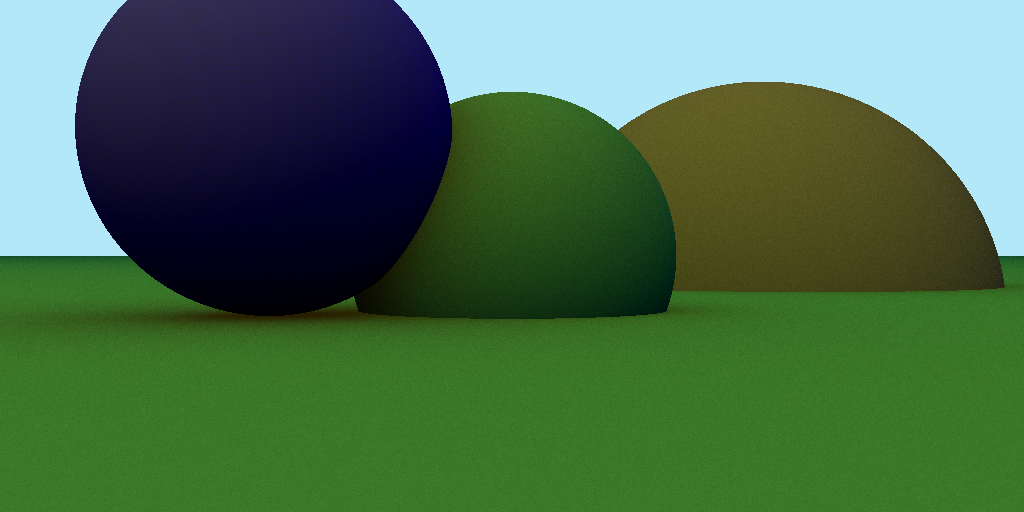
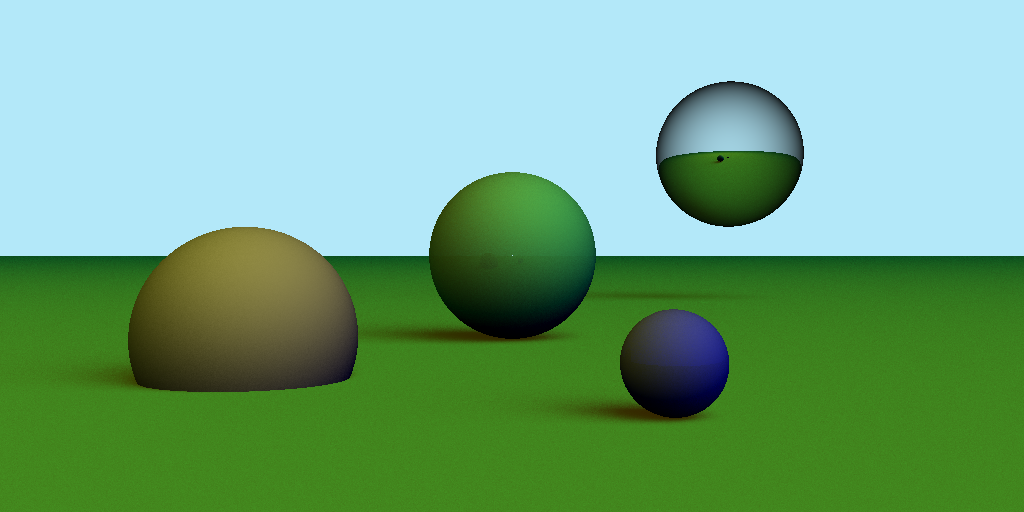
reflection

diff --git a/src/lightbox.cpp b/src/lightbox.cpp
@@ -11,6 +11,7 @@ struct Sphere {
   Vec3d center;
   Vec3d albedo;
   float radius;
+  float reflectiveness;
 };
 
 struct PointLight {
@@ -22,17 +23,19 @@ struct Plane {
   Vec3d point;
   Vec3d norm;
   Vec3d albedo;
+  float reflectiveness;
 };
 
 struct HitPoint {
   Vec3d point;
   Vec3d norm;
   Vec3d albedo;
+  float reflect;
 };
 
 Vec3d camera;
-
-Sphere spheres[3];
+int sphereCount = 4;
+Sphere spheres[4];
 PointLight plight;
 Plane ground;
 
@@ -97,10 +100,11 @@ Vec3d trace(Vec3d ray_origin, Vec3d ray, int depth) {
       hp.point = hitP;
       hp.norm = norm;
       hp.albedo = ground.albedo;
+      hp.reflect = ground.reflectiveness;
     }
 
     // spheres
-    for(int i=0; i<3; i++) {
+    for(int i=0; i<sphereCount; i++) {
       Vec3d hitP;
       Vec3d norm;
       float hitDist = intersect(spheres[i], ray_origin, ray, hitP, norm);
@@ -111,13 +115,14 @@ Vec3d trace(Vec3d ray_origin, Vec3d ray, int depth) {
         hp.point = hitP;
         hp.norm = norm;
         hp.albedo = spheres[i].albedo;
+        hp.reflect = spheres[i].reflectiveness;
       }
     }
 
 
 
     // pick a random direction
-    L = normalize(Vec3d(rrand()*2-1, rrand()*2-1, rrand()*2-1));
+    L = normalize(Vec3d(rrand(), rrand(), rrand()));
     // ensure that it isn't going inside the sphere  
     // (reflect ray instead?)  
     L = hp.norm.dot(L) < 0 ? -1*L : L;
@@ -129,15 +134,19 @@ Vec3d trace(Vec3d ray_origin, Vec3d ray, int depth) {
     // }
 
     if(hit) {
-      px = trace(hp.point, L, depth-1) * hp.albedo * hp.norm.dot(L);
-      
-      // go hit the light
-      Vec3d hitLight = normalize(plight.center - hp.point);
-      Vec3d lightCol = plight.albedo * hp.norm.dot(hitLight);
+      if(rrand() < hp.reflect) {
+        L = normalize(ray - 2*hp.norm.dot(ray)*hp.norm);
+        px = trace(hp.point, L, depth-1) * hp.albedo * hp.norm.dot(L);
+      } else {
+        px = trace(hp.point, L, depth-1) * hp.albedo * hp.norm.dot(L);
+        // go hit the light
+        Vec3d hitLight = normalize(plight.center - hp.point);
+        Vec3d lightCol = plight.albedo * hp.norm.dot(hitLight);
 
-      // average out ray effects
-      // weight them differently... 
-      px = 0.8*px + 0.2*lightCol;
+        // average out ray effects
+        // weight them differently... 
+        px = 0.8*px + 0.2*lightCol;
+      }      
     } 
     return px;
   }
@@ -154,7 +163,7 @@ how does that relate to right hand / left hand rule for seeing direction of norm
 // The image center will be (0,0), and x will range from -0.5 to 0.5.
 inline Vec3d render_pixel(Vec2d xy) {
   Vec3d px = Vec3d(0.);
-  int count = 100;
+  int count = 160;
   for(int i=0; i<count; i++) {
     Vec3d ray= Vec3d(xy.x, xy.y, 0) - camera;
     Vec3d rayDirection = normalize(ray);
@@ -181,24 +190,33 @@ int main(int argc, char** argv) {
   
   camera = Vec3d(0., 0., 1.);
   
-  spheres[0].center = Vec3d(-0.4, .2, -.7);
-  spheres[0].albedo = Vec3d(0.1, 0., 1.);
-  spheres[0].radius = 0.3;
+  spheres[0].center = Vec3d(-0.65, -.2, -1.5);
+  spheres[0].albedo = Vec3d(.7, .5, .4 );
+  spheres[0].radius = 0.27;
+  spheres[0].reflectiveness = 0.;
 
-  spheres[1].center = Vec3d(0.,0., -.9);
+  spheres[1].center = Vec3d(0.,0., -2.7);
   spheres[1].albedo = Vec3d(.2, .7, .4);
   spheres[1].radius = 0.3;
+  spheres[1].reflectiveness = 0.08;
 
-  spheres[2].center = Vec3d(.85, -.2, -2.6);
-  spheres[2].albedo = Vec3d(.7, .5, .4 );
-  spheres[2].radius = .8;
+  spheres[2].center = Vec3d(1.5, .7, -6.1);
+  spheres[2].albedo = Vec3d(0.9, 0.9, 0.9);
+  spheres[2].radius = .5;
+  spheres[2].reflectiveness = 1.;
+
+  spheres[3].center = Vec3d(.3, -.2, -.9);
+  spheres[3].albedo = Vec3d(0.1, 0.1, 0.8);
+  spheres[3].radius = .1;
+  spheres[3].reflectiveness = .1;
 
   plight.center = Vec3d(-3.,10.,5.);
-  plight.albedo = Vec3d(1.,1.,0.);
+  plight.albedo = Vec3d(1.3,1.3,0.);
 
-  ground.point = Vec3d(0., -.1, 0.);
+  ground.point = Vec3d(0., -.3, 0.);
   ground.norm = normalize(Vec3d(0.,1.,0.));
-  ground.albedo = Vec3d(.2, 0.8, 0.4);
+  ground.albedo = Vec3d(.128, 0.813, 0.291);
+  ground.reflectiveness = .0;
 
   render_image(img);
   
